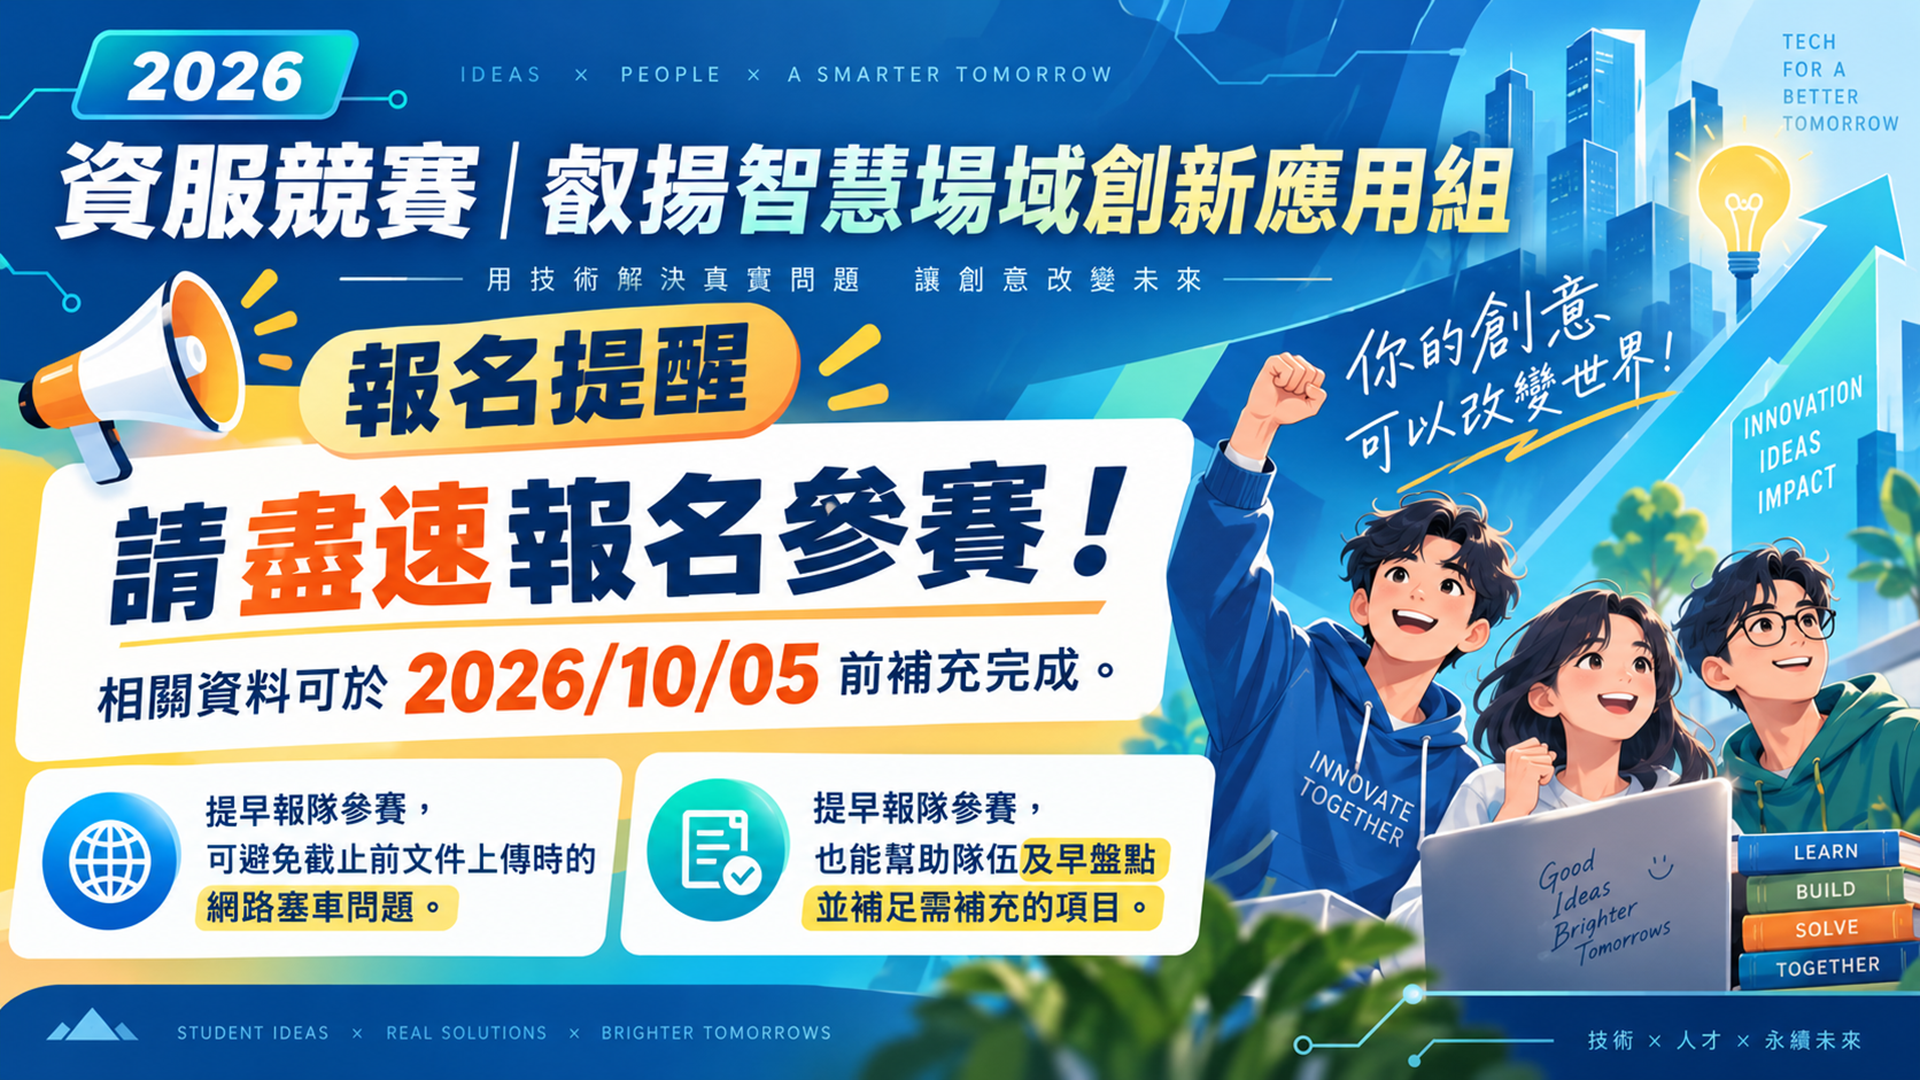
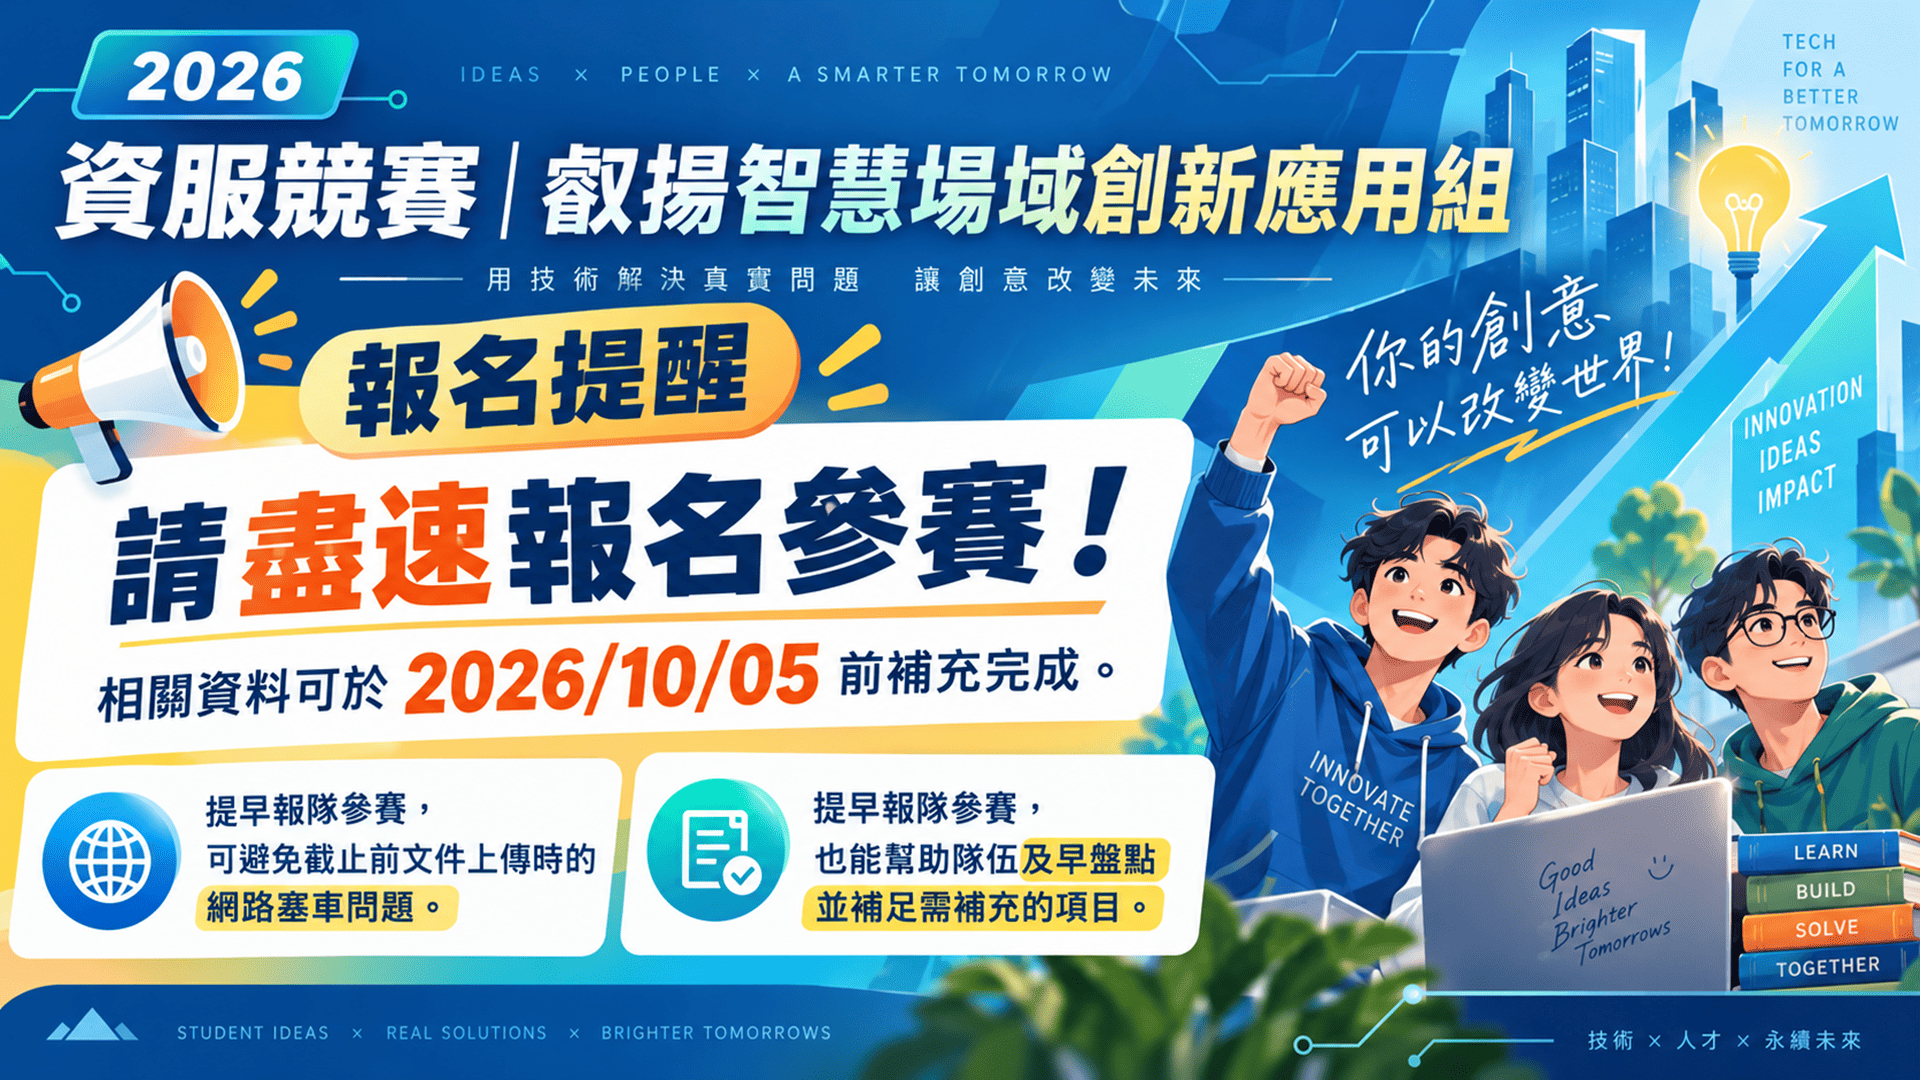
縮小圖片尺寸，評分標準div 放到外面

diff --git a/src/app/2026-school/signup/school-signup.component.html b/src/app/2026-school/signup/school-signup.component.html
@@ -20,10 +20,10 @@
                     若透過 API 串接整合「叡揚」多項數位服務，每整合一項可加分<br>
                     （最高 5%），最多整合兩項可加至 10%。
                 </p>
-            <div class="image-slot">
-                <img src="../../../assets/images/2026/RatingItems.png" alt="評分標準">
-            </div>
             </c-method-n>
+            <div class="image-slot">
+                <img src="../../../assets/images/2026/RatingItems.jpg" alt="評分標準">
+            </div>
             <c-method-n class="title" [icon]="'innoserve_29_prize'" [methodSubject]="'獎勵方式'">
                 <table style="margin-bottom: 36px;" class="default-table">
                     <thead>
